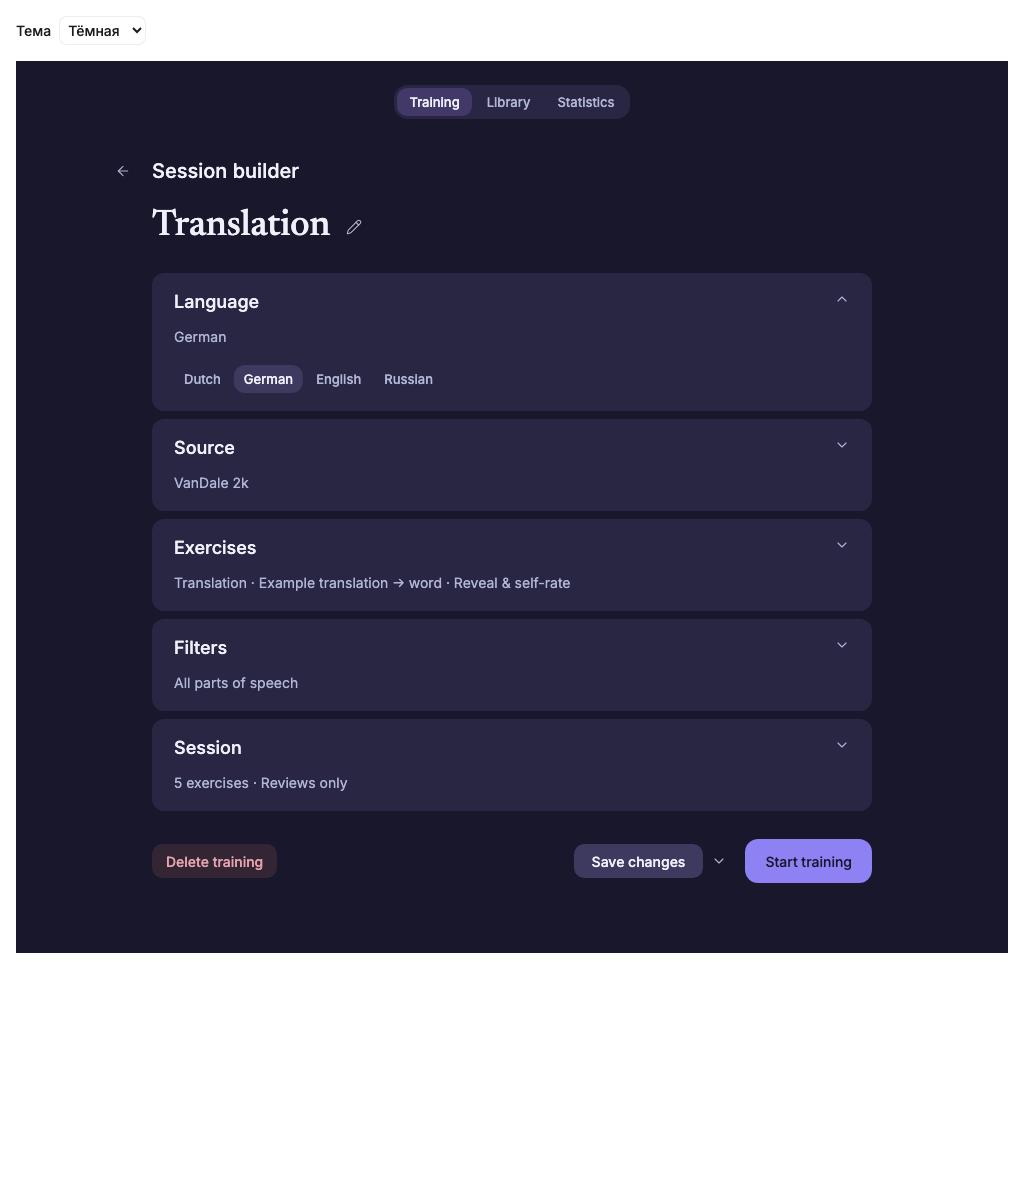
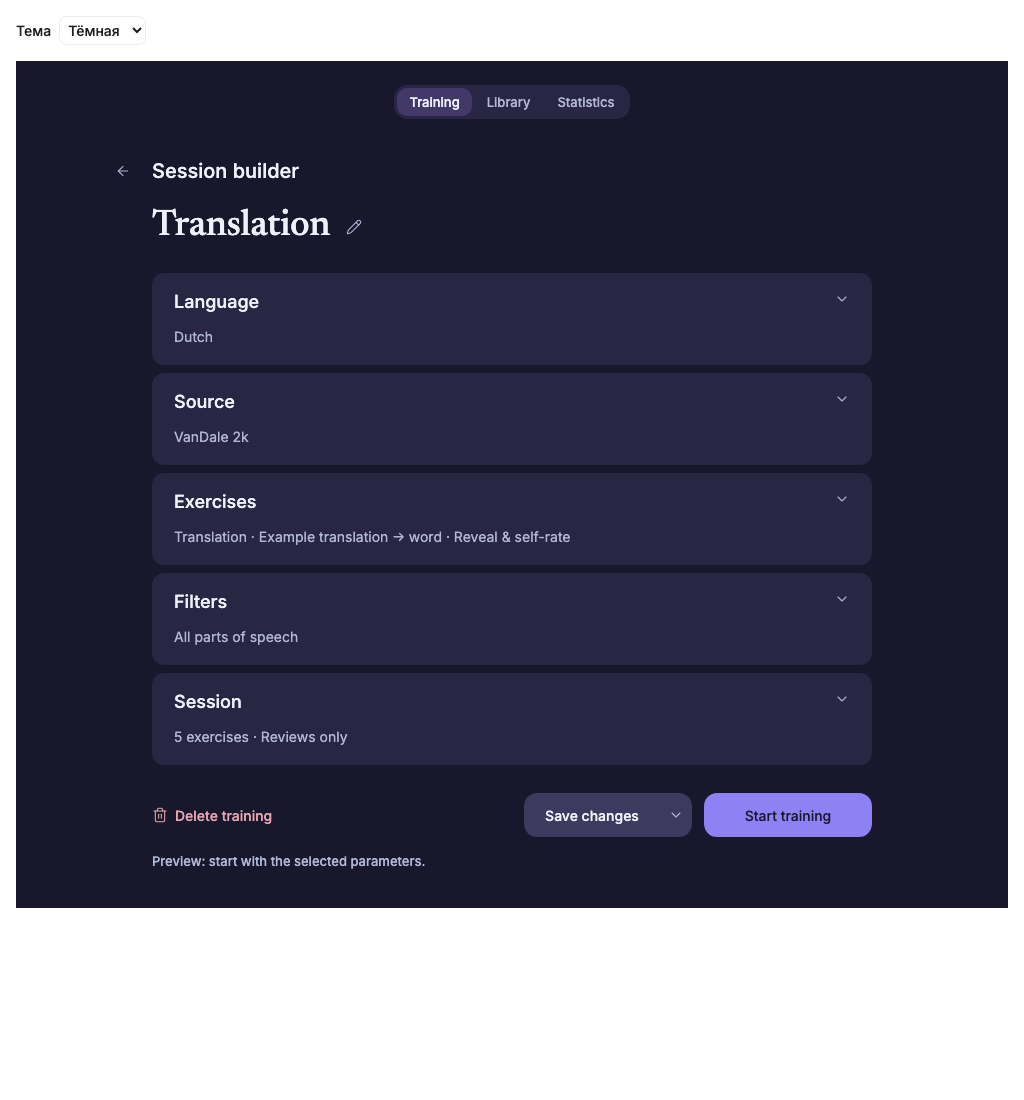
docs(ui): align builder actions and integrate save chevron

diff --git a/docs/design/controls-2026-10/session-builder.html b/docs/design/controls-2026-10/session-builder.html
@@ -1551,7 +1551,7 @@ html&gt;body{padding:0}&lt;/style&gt;
         &lt;details&gt;&lt;summary&gt;&lt;span&gt;Filters&lt;/span&gt;&lt;i data-lucide=&quot;chevron-down&quot; aria-hidden=&quot;true&quot;&gt;&lt;/i&gt;&lt;small&gt;All parts of speech&lt;/small&gt;&lt;/summary&gt;&lt;div class=&quot;section-options&quot;&gt;&lt;div class=&quot;builder-segment&quot; role=&quot;group&quot; aria-label=&quot;Parts of speech&quot;&gt;&lt;span class=&quot;choice-ink&quot;&gt;&lt;/span&gt;&lt;button type=&quot;button&quot; aria-pressed=&quot;true&quot;&gt;All&lt;/button&gt;&lt;button type=&quot;button&quot; aria-pressed=&quot;false&quot;&gt;Nouns&lt;/button&gt;&lt;button type=&quot;button&quot; aria-pressed=&quot;false&quot;&gt;Verbs&lt;/button&gt;&lt;button type=&quot;button&quot; aria-pressed=&quot;false&quot;&gt;Adjectives&lt;/button&gt;&lt;/div&gt;&lt;/div&gt;&lt;/details&gt;
         &lt;details&gt;&lt;summary&gt;&lt;span&gt;Session&lt;/span&gt;&lt;i data-lucide=&quot;chevron-down&quot; aria-hidden=&quot;true&quot;&gt;&lt;/i&gt;&lt;small&gt;5 exercises · Reviews only&lt;/small&gt;&lt;/summary&gt;&lt;div class=&quot;section-options&quot;&gt;&lt;div class=&quot;builder-segment&quot; role=&quot;group&quot; aria-label=&quot;Session mode&quot;&gt;&lt;span class=&quot;choice-ink&quot;&gt;&lt;/span&gt;&lt;button type=&quot;button&quot; aria-pressed=&quot;true&quot;&gt;Reviews only&lt;/button&gt;&lt;button type=&quot;button&quot; aria-pressed=&quot;false&quot;&gt;New + reviews&lt;/button&gt;&lt;/div&gt;&lt;label&gt;Exercises &lt;select aria-label=&quot;Number of exercises&quot;&gt;&lt;option&gt;5&lt;/option&gt;&lt;option&gt;10&lt;/option&gt;&lt;option&gt;20&lt;/option&gt;&lt;/select&gt;&lt;/label&gt;&lt;/div&gt;&lt;/details&gt;
       &lt;/div&gt;
-      &lt;footer class=&quot;builder-actions&quot;&gt;&lt;button type=&quot;button&quot; class=&quot;delete-training&quot;&gt;Delete training&lt;/button&gt;&lt;div class=&quot;save-actions&quot;&gt;&lt;button type=&quot;button&quot; class=&quot;save-training&quot;&gt;Save changes&lt;/button&gt;&lt;button type=&quot;button&quot; class=&quot;save-menu-trigger&quot; aria-label=&quot;More saving options&quot; aria-haspopup=&quot;true&quot; aria-expanded=&quot;false&quot;&gt;&lt;i data-lucide=&quot;chevron-down&quot; aria-hidden=&quot;true&quot;&gt;&lt;/i&gt;&lt;/button&gt;&lt;div class=&quot;save-menu&quot; hidden&gt;&lt;button type=&quot;button&quot;&gt;Save as new training&lt;/button&gt;&lt;/div&gt;&lt;/div&gt;&lt;button type=&quot;button&quot; class=&quot;start-training&quot;&gt;Start training&lt;/button&gt;&lt;/footer&gt;
+      &lt;footer class=&quot;builder-actions&quot;&gt;&lt;button type=&quot;button&quot; class=&quot;delete-training&quot;&gt;&lt;i data-lucide=&quot;trash-2&quot; aria-hidden=&quot;true&quot;&gt;&lt;/i&gt;Delete training&lt;/button&gt;&lt;div class=&quot;save-actions&quot; role=&quot;group&quot; aria-label=&quot;Save training&quot;&gt;&lt;button type=&quot;button&quot; class=&quot;save-training&quot;&gt;Save changes&lt;/button&gt;&lt;button type=&quot;button&quot; class=&quot;save-menu-trigger&quot; aria-label=&quot;More saving options&quot; aria-haspopup=&quot;true&quot; aria-expanded=&quot;false&quot;&gt;&lt;i data-lucide=&quot;chevron-down&quot; aria-hidden=&quot;true&quot;&gt;&lt;/i&gt;&lt;/button&gt;&lt;div class=&quot;save-menu&quot; hidden&gt;&lt;button type=&quot;button&quot;&gt;Save as new training&lt;/button&gt;&lt;/div&gt;&lt;/div&gt;&lt;button type=&quot;button&quot; class=&quot;start-training&quot;&gt;Start training&lt;/button&gt;&lt;/footer&gt;
       &lt;output id=&quot;builder-feedback&quot; aria-live=&quot;polite&quot;&gt;&lt;/output&gt;
     &lt;/main&gt;
   &lt;/div&gt;
@@ -1593,16 +1593,16 @@ html&gt;body{padding:0}&lt;/style&gt;
 #nl-builder-review .choice-ink{background:var(--b-selected);border-radius:11.2px}
 #nl-builder-review .builder-actions{display:flex;gap:12px;align-items:center;margin-top:28px}
 #nl-builder-review .builder-actions button{height:34px;padding:0 14px;border-radius:10.2px}
-#nl-builder-review .delete-training{margin-right:auto;color:var(--b-danger);background:var(--b-danger-bg)}
-#nl-builder-review .save-actions{display:flex;align-items:center;position:relative;gap:2px}
-#nl-builder-review .save-training{background:var(--b-selected);padding:0 18px!important}
-#nl-builder-review .builder-actions .save-menu-trigger{padding:0;width:28px;background:transparent;color:var(--b-muted)}
-#nl-builder-review .builder-actions .start-training{height:44px;border-radius:13.2px;background:var(--b-primary);color:var(--b-on-primary);padding:0 20px}
+#nl-builder-review .delete-training{margin-right:auto;color:var(--b-danger);background:transparent;gap:7px;padding-left:0!important}
+#nl-builder-review .save-actions{display:flex;align-items:center;position:relative;gap:0;width:168px;height:44px;flex-shrink:0;background:var(--b-selected);border-radius:13.2px}
+#nl-builder-review .builder-actions .save-training{height:44px;flex:1;min-width:0;padding:0 10px;border-radius:13.2px 0 0 13.2px;background:transparent}
+#nl-builder-review .builder-actions .save-menu-trigger{height:44px;padding:0;width:32px;flex-shrink:0;border-radius:0 13.2px 13.2px 0;background:transparent;color:var(--b-muted)}
+#nl-builder-review .builder-actions .start-training{height:44px;width:168px;flex-shrink:0;border-radius:13.2px;background:var(--b-primary);color:var(--b-on-primary);padding:0 12px}
 #nl-builder-review .save-menu{position:absolute;right:0;bottom:calc(100% + 7px);background:var(--b-menu);border:1px solid var(--b-border);border-radius:12px;padding:5px;box-shadow:0 5px 18px color-mix(in srgb,var(--b-text) 10%,transparent);z-index:5}
 #nl-builder-review .save-menu button:hover{background:var(--b-selected)}
 #nl-builder-review output{display:block;min-height:20px;margin-top:14px;font-size:13px;color:var(--b-muted)}
 #nl-builder-review select{background:var(--b-menu,var(--background));color:inherit;border:1px solid var(--b-border,var(--border));border-radius:8px;padding:4px}
-@media(max-width:600px){#nl-builder-review .builder-app{padding:20px 20px 24px}#nl-builder-review .back{position:static;float:left;margin-left:-8px;margin-right:4px}#nl-builder-review .builder-actions{flex-wrap:wrap;gap:10px}#nl-builder-review .delete-training{margin-right:0}#nl-builder-review .save-actions{margin-left:auto}#nl-builder-review .start-training{width:100%}#nl-builder-review summary{padding:16px}#nl-builder-review .section-options{padding:0 12px 16px}#nl-builder-review .builder-segment{gap:0}#nl-builder-review .builder-segment button{padding:0 7px;font-size:12px}#nl-builder-review .builder-nav button{padding:0 10px}}
+@media(max-width:600px){#nl-builder-review .builder-app{padding:20px 20px 24px}#nl-builder-review .back{position:static;float:left;margin-left:-8px;margin-right:4px}#nl-builder-review .builder-actions{display:grid;grid-template-columns:repeat(2,minmax(0,1fr));gap:12px 10px}#nl-builder-review .delete-training{grid-column:1/-1;justify-self:start;margin-right:0}#nl-builder-review .save-actions{width:100%;min-width:0}#nl-builder-review .builder-actions .start-training{width:100%;min-width:0}#nl-builder-review .builder-actions .save-training{font-size:13px;padding:0 6px}#nl-builder-review .builder-actions .save-menu-trigger{width:28px}#nl-builder-review summary{padding:16px}#nl-builder-review .section-options{padding:0 12px 16px}#nl-builder-review .builder-segment{gap:0}#nl-builder-review .builder-segment button{padding:0 7px;font-size:12px}#nl-builder-review .builder-nav button{padding:0 10px}}
 @media(prefers-reduced-motion:reduce){#nl-builder-review .nav-ink,#nl-builder-review .choice-ink{transition:none}}
 &lt;/style&gt;
 &lt;script&gt;

diff --git a/docs/design/controls-2026-10/session-builder.fragment.html b/docs/design/controls-2026-10/session-builder.fragment.html
@@ -12,7 +12,7 @@
         <details><summary><span>Filters</span><i data-lucide="chevron-down" aria-hidden="true"></i><small>All parts of speech</small></summary><div class="section-options"><div class="builder-segment" role="group" aria-label="Parts of speech"><span class="choice-ink"></span><button type="button" aria-pressed="true">All</button><button type="button" aria-pressed="false">Nouns</button><button type="button" aria-pressed="false">Verbs</button><button type="button" aria-pressed="false">Adjectives</button></div></div></details>
         <details><summary><span>Session</span><i data-lucide="chevron-down" aria-hidden="true"></i><small>5 exercises · Reviews only</small></summary><div class="section-options"><div class="builder-segment" role="group" aria-label="Session mode"><span class="choice-ink"></span><button type="button" aria-pressed="true">Reviews only</button><button type="button" aria-pressed="false">New + reviews</button></div><label>Exercises <select aria-label="Number of exercises"><option>5</option><option>10</option><option>20</option></select></label></div></details>
       </div>
-      <footer class="builder-actions"><button type="button" class="delete-training">Delete training</button><div class="save-actions"><button type="button" class="save-training">Save changes</button><button type="button" class="save-menu-trigger" aria-label="More saving options" aria-haspopup="true" aria-expanded="false"><i data-lucide="chevron-down" aria-hidden="true"></i></button><div class="save-menu" hidden><button type="button">Save as new training</button></div></div><button type="button" class="start-training">Start training</button></footer>
+      <footer class="builder-actions"><button type="button" class="delete-training"><i data-lucide="trash-2" aria-hidden="true"></i>Delete training</button><div class="save-actions" role="group" aria-label="Save training"><button type="button" class="save-training">Save changes</button><button type="button" class="save-menu-trigger" aria-label="More saving options" aria-haspopup="true" aria-expanded="false"><i data-lucide="chevron-down" aria-hidden="true"></i></button><div class="save-menu" hidden><button type="button">Save as new training</button></div></div><button type="button" class="start-training">Start training</button></footer>
       <output id="builder-feedback" aria-live="polite"></output>
     </main>
   </div>
@@ -54,16 +54,16 @@
 #nl-builder-review .choice-ink{background:var(--b-selected);border-radius:11.2px}
 #nl-builder-review .builder-actions{display:flex;gap:12px;align-items:center;margin-top:28px}
 #nl-builder-review .builder-actions button{height:34px;padding:0 14px;border-radius:10.2px}
-#nl-builder-review .delete-training{margin-right:auto;color:var(--b-danger);background:var(--b-danger-bg)}
-#nl-builder-review .save-actions{display:flex;align-items:center;position:relative;gap:2px}
-#nl-builder-review .save-training{background:var(--b-selected);padding:0 18px!important}
-#nl-builder-review .builder-actions .save-menu-trigger{padding:0;width:28px;background:transparent;color:var(--b-muted)}
-#nl-builder-review .builder-actions .start-training{height:44px;border-radius:13.2px;background:var(--b-primary);color:var(--b-on-primary);padding:0 20px}
+#nl-builder-review .delete-training{margin-right:auto;color:var(--b-danger);background:transparent;gap:7px;padding-left:0!important}
+#nl-builder-review .save-actions{display:flex;align-items:center;position:relative;gap:0;width:168px;height:44px;flex-shrink:0;background:var(--b-selected);border-radius:13.2px}
+#nl-builder-review .builder-actions .save-training{height:44px;flex:1;min-width:0;padding:0 10px;border-radius:13.2px 0 0 13.2px;background:transparent}
+#nl-builder-review .builder-actions .save-menu-trigger{height:44px;padding:0;width:32px;flex-shrink:0;border-radius:0 13.2px 13.2px 0;background:transparent;color:var(--b-muted)}
+#nl-builder-review .builder-actions .start-training{height:44px;width:168px;flex-shrink:0;border-radius:13.2px;background:var(--b-primary);color:var(--b-on-primary);padding:0 12px}
 #nl-builder-review .save-menu{position:absolute;right:0;bottom:calc(100% + 7px);background:var(--b-menu);border:1px solid var(--b-border);border-radius:12px;padding:5px;box-shadow:0 5px 18px color-mix(in srgb,var(--b-text) 10%,transparent);z-index:5}
 #nl-builder-review .save-menu button:hover{background:var(--b-selected)}
 #nl-builder-review output{display:block;min-height:20px;margin-top:14px;font-size:13px;color:var(--b-muted)}
 #nl-builder-review select{background:var(--b-menu,var(--background));color:inherit;border:1px solid var(--b-border,var(--border));border-radius:8px;padding:4px}
-@media(max-width:600px){#nl-builder-review .builder-app{padding:20px 20px 24px}#nl-builder-review .back{position:static;float:left;margin-left:-8px;margin-right:4px}#nl-builder-review .builder-actions{flex-wrap:wrap;gap:10px}#nl-builder-review .delete-training{margin-right:0}#nl-builder-review .save-actions{margin-left:auto}#nl-builder-review .start-training{width:100%}#nl-builder-review summary{padding:16px}#nl-builder-review .section-options{padding:0 12px 16px}#nl-builder-review .builder-segment{gap:0}#nl-builder-review .builder-segment button{padding:0 7px;font-size:12px}#nl-builder-review .builder-nav button{padding:0 10px}}
+@media(max-width:600px){#nl-builder-review .builder-app{padding:20px 20px 24px}#nl-builder-review .back{position:static;float:left;margin-left:-8px;margin-right:4px}#nl-builder-review .builder-actions{display:grid;grid-template-columns:repeat(2,minmax(0,1fr));gap:12px 10px}#nl-builder-review .delete-training{grid-column:1/-1;justify-self:start;margin-right:0}#nl-builder-review .save-actions{width:100%;min-width:0}#nl-builder-review .builder-actions .start-training{width:100%;min-width:0}#nl-builder-review .builder-actions .save-training{font-size:13px;padding:0 6px}#nl-builder-review .builder-actions .save-menu-trigger{width:28px}#nl-builder-review summary{padding:16px}#nl-builder-review .section-options{padding:0 12px 16px}#nl-builder-review .builder-segment{gap:0}#nl-builder-review .builder-segment button{padding:0 7px;font-size:12px}#nl-builder-review .builder-nav button{padding:0 10px}}
 @media(prefers-reduced-motion:reduce){#nl-builder-review .nav-ink,#nl-builder-review .choice-ink{transition:none}}
 </style>
 <script>

diff --git a/docs/intent/control-system.md b/docs/intent/control-system.md
@@ -11,7 +11,8 @@ Status: control defaults selected; Session Builder visual review pending. No pro
 | Period, statistics languages, material language, builder languages, appearance, spacing, text size, translation | 28 px | 40% = 11.2 px | No | No |
 | Learning languages selector | 28 px | 40% = 11.2 px | No | No |
 | Primary Start training / wide Start learning | 44 px | 30% = 13.2 px | Action fill | No |
-| Secondary actions in Session Builder | 34 px | 30% = 10.2 px | Contextual action fill | No |
+| Save changes + menu / Start training in Session Builder | 44 px, equal width | 30% = 13.2 px | Secondary / primary action fill | No |
+| Delete training in Session Builder | 34 px | 30% = 10.2 px | Transparent; trash icon + label | No |
 | Library dictionary-card service actions | 28 px, fixed | 30% = 8.4 px | No group fill | No |
 
 The percentages are relative to control height, not width. Retain 44 / 34 / 28 as explicit size variants. Do not replace intentionally wide launch actions with content-width controls everywhere.
@@ -34,7 +35,7 @@ Your material: All means all material languages, Current language follows the ap
 
 Use the Training overview's 720 px content width, including sections and footer. The back arrow may sit outside this alignment on desktop, inside the header on small screens. Keep the overview's Newsreader training title (36 px) and a modest Inter Session builder heading (20 px). Training name appears as text with a pencil; editing is explicit.
 
-Delete training is a muted destructive action on the left, available only for a saved training. Save changes updates that saved recipe; Save as new training is a separate menu action. Start training launches the edited parameters. Preserve the authoritative session lifecycle; this visual decision does not authorize changing persistence or DB behavior. For a new recipe use Save training, not Save changes. Retain discard/unsaved-change and deletion confirmation behavior where required.
+Delete training is an unfilled muted destructive action with a trash icon and label on the left, available only for a saved training. Save changes and Start training have the same height (44 px) and equal visual widths (168 px on desktop, equal responsive columns on narrow screens). Save changes and its chevron share one continuous secondary fill and outline shape, with no divider. The label saves directly; the chevron opens the Save as new training menu. Keep these as distinct accessible actions within one visual control. Save changes updates that saved recipe; Save as new training is a separate menu action. Start training launches the edited parameters. Preserve the authoritative session lifecycle; this visual decision does not authorize changing persistence or DB behavior. For a new recipe use Save training, not Save changes. Retain discard/unsaved-change and deletion confirmation behavior where required.
 
 Remove Set as main training: an explicit start makes it current. Remove unrelated Checking your saved session and reset-on-another-device prose from this builder. Necessary loading and failure states should attach to their actual action, not display unexplained status text. The mockup has local preview actions, not actual data mutations.
 
